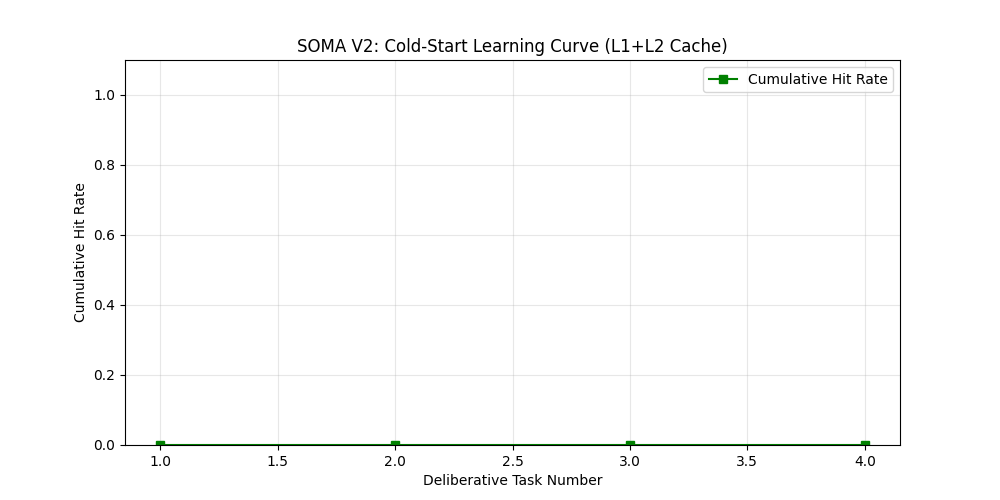
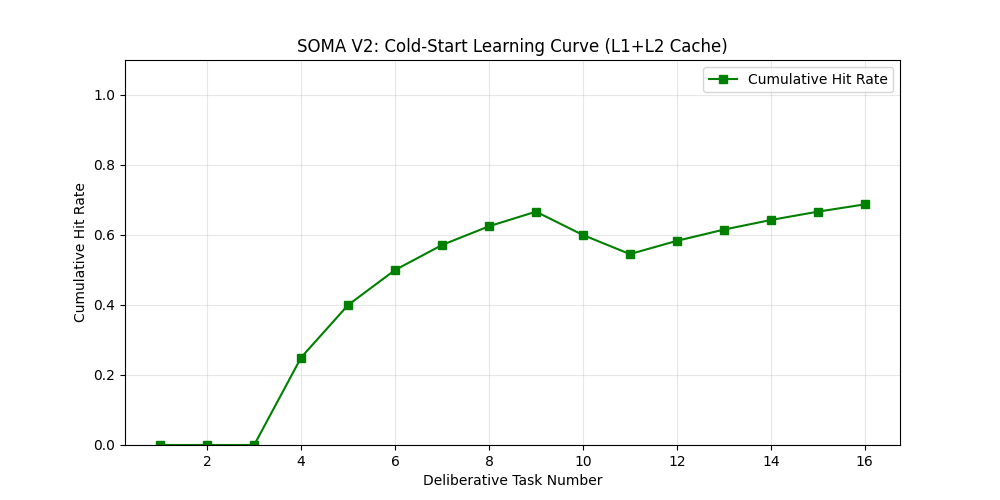
Fix Priority 4: Aggregate cache logs across all slots and fix cold-start learning curve

diff --git a/scratch/real_competitor_battle.py b/scratch/real_competitor_battle.py
@@ -298,7 +298,7 @@ async def run_soma(workload: List[Dict], use_ollama: bool, model: str, warm_cach
         async def driver(label: str, prompt: str) -> str:
             call_types.append(label)
             await counter.increment(len(prompt) // 4, 100)
-            await asyncio.sleep(0.01)
+            await asyncio.sleep(0.05)
             if "plan" in label or "deliberative_plan" in label:
                 return json.dumps({"steps": [
                     {"id": "s1", "description": "Assess situation.",   "deps": [],      "alternative": None},
@@ -331,10 +331,22 @@ async def run_soma(workload: List[Dict], use_ollama: bool, model: str, warm_cach
         call_types.clear()
 
     t0      = time.perf_counter()
-    results = await asyncio.gather(*[
-        director.assign(t["text"], urgency=t["urgency"], forced_depth=t["depth"])
-        for t in workload
-    ])
+    # For cold-start curve, we run a bit more sequentially to show learning
+    if not warm_cache:
+        # Run in small batches to allow cache to populate for the curve
+        results = []
+        for i in range(0, len(workload), 2):
+            batch = workload[i:i+2]
+            res = await asyncio.gather(*[
+                director.assign(t["text"], urgency=t["urgency"], forced_depth=t["depth"])
+                for t in batch
+            ])
+            results.extend(res)
+    else:
+        results = await asyncio.gather(*[
+            director.assign(t["text"], urgency=t["urgency"], forced_depth=t["depth"])
+            for t in workload
+        ])
     latency = time.perf_counter() - t0
     await director.stop()
 
@@ -377,9 +389,11 @@ async def run_soma(workload: List[Dict], use_ollama: bool, model: str, warm_cach
         class_stats[c] = {"precision": round(precision, 2), "recall": round(recall, 2)}
 
     #  cache curve extraction (Priority 4) 
-    # Extract cache log from the deliberative agent (assume all slots share one if logic allows, 
-    # but here we just take the first one's agent)
-    cache_log = list(director._slots.values())[0].kernel.deliberative._cache_log
+    # Aggregate logs from ALL slots and sort by timestamp
+    full_log = []
+    for slot in director._slots.values():
+        full_log.extend(slot.kernel.deliberative._cache_log)
+    full_log.sort(key=lambda x: x["timestamp"])
 
     from collections import Counter
     return {
@@ -393,7 +407,7 @@ async def run_soma(workload: List[Dict], use_ollama: bool, model: str, warm_cach
         "depth_dist":   depth_dist,
         "classifier_accuracy": round(accuracy, 3),
         "classifier_stats": class_stats,
-        "cache_log":    cache_log,
+        "cache_log":    full_log,
     }
 
 

diff --git a/src/soma_v2/agents/deliberative.py b/src/soma_v2/agents/deliberative.py
@@ -230,11 +230,13 @@ class DeliberativeAgent:
                 cache_level  = "L2-cold"
 
         # ── log hit/miss (Priority 4) ─────────────────────────────────────────
+        import time
         self._cache_log.append({
             "task_num": len(self._cache_log) + 1,
             "hit": cached_match,
             "level": cache_level,
-            "event": event[:50]
+            "event": event[:50],
+            "timestamp": time.time()
         })
 
         # ── L3: LLM plan generation ───────────────────────────────────────────
